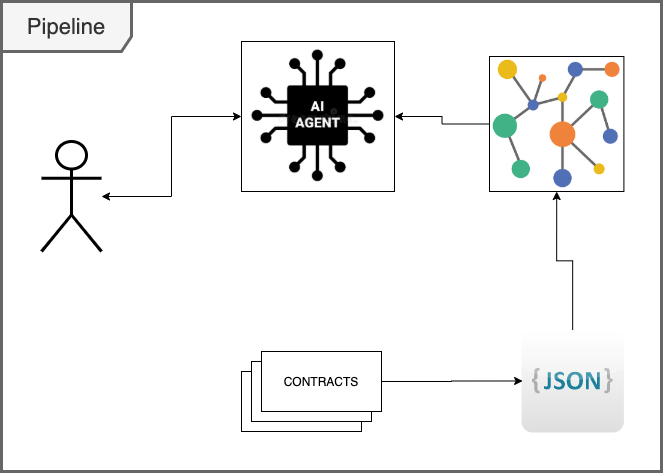
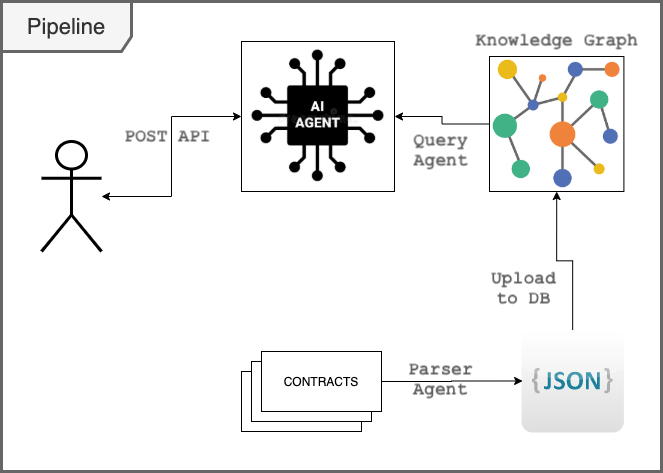
Add files via upload

diff --git a/README.md b/README.md
@@ -1,1 +1,48 @@
 # ai-tinkerer-hackathon-25
+
+This is a helpful assistant tasked with finding and explaining relevant information about internal legal contracts. We got the legal contract corpus from [Kaggle](https://www.kaggle.com/datasets/konradb/atticus-open-contract-dataset-aok-beta) and [CUAD](https://www.atticusprojectai.org/cuad).
+
+We've implemented a pipeline, which has the following steps...
+
+## AI Contract Parsing Agent
+
+### Model
+
+1. **Contract** - Represents the key details of the contract.
+    1. **Clauses** - Represents a clause in a contract
+    2. **Location** - Represents a physical location including address, city, state, and country.
+    3. **Organization** - Represents an organization, including its name and location.
+    4. Summary
+    5. Contract Type
+    6. Parties
+    7. Effective Date
+    8. Contract Scope
+    9. Duration
+    10. End Date
+    11. Total Amount
+    12. Governing Law
+
+### Stages
+
+1. This parses the plain text contract documents, according to the above model
+2. Once that is complete, it also uses an AI model to add embeddings to the summary
+
+## Uploading that to Neo4J DB
+
+1. Once we have the parsed contracts, and the vectorized/embedded data, we save it to a Knowledge Graph DB, according to the above model/schema
+2. We're using Neo4J for this, but it can work with any KG DB
+
+## AI Query Agent
+
+1. We then implement another AI agent to query/search this DB, as a source for it's RAG-based execution
+
+## Use Cases
+
+1. Any law firm can use this to digitally document their previous cases and contracts, and query or search for it.
+2. This can even be licensed as a tool for lawyers or law practitioners
+3. People can even subscribe to this product...
+
+## Architecture diagram
+
+![Pipeline Architecture](Pipeline.png)
+
